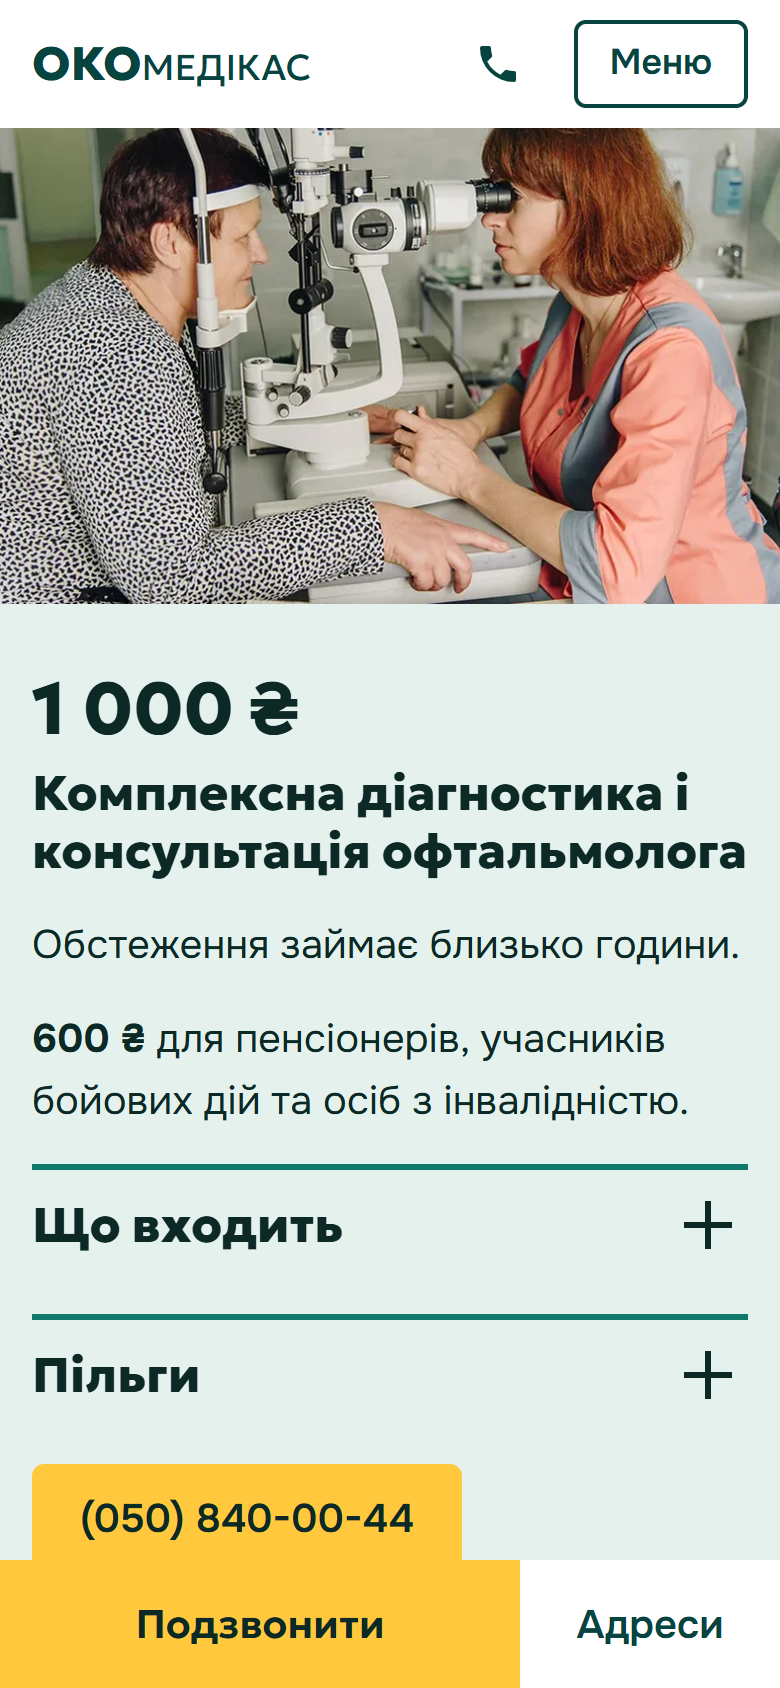
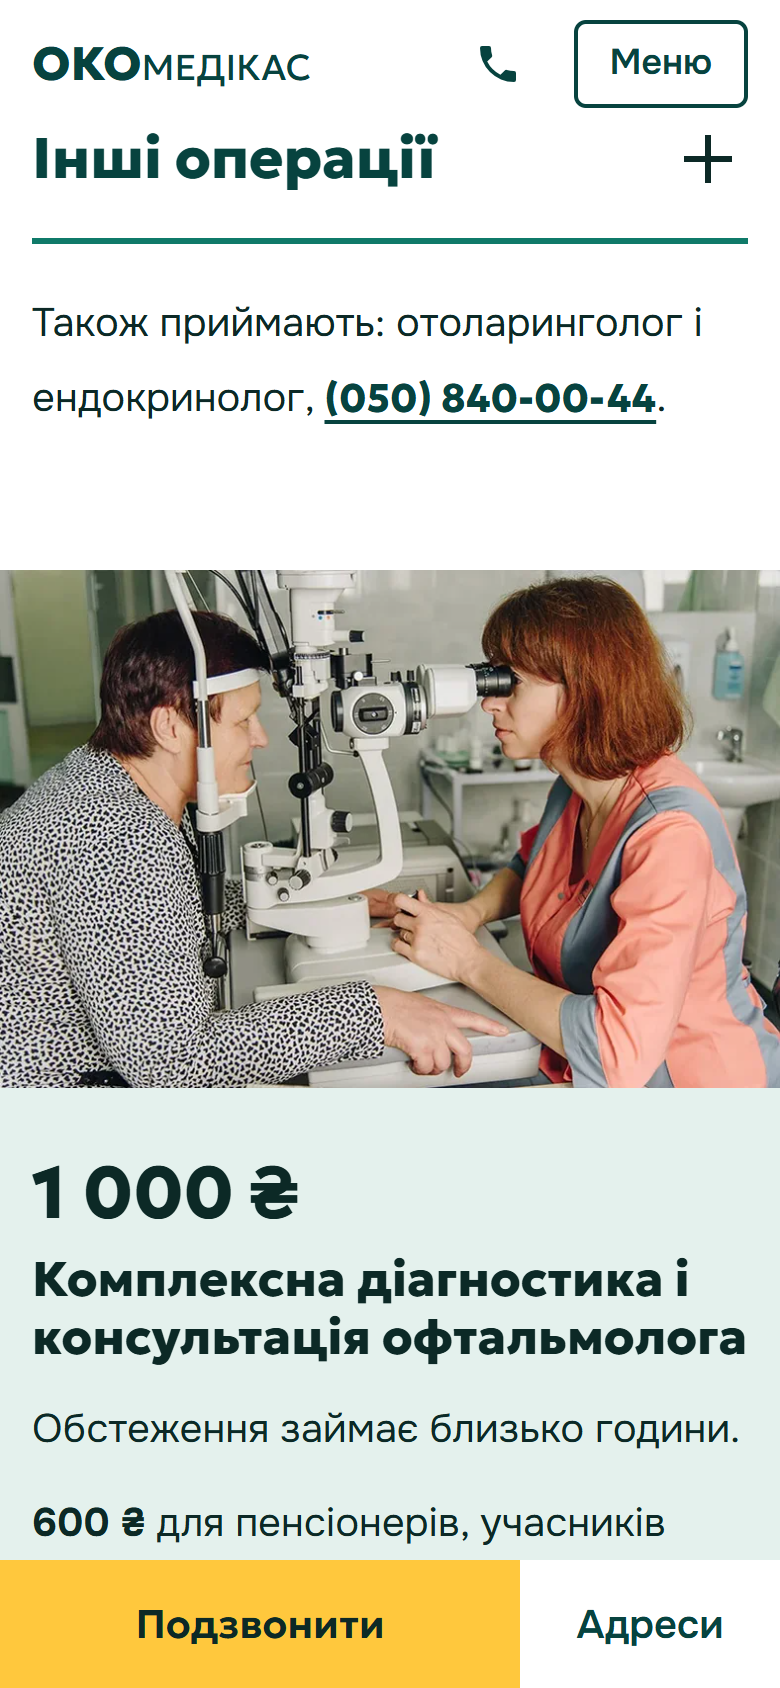
VEON: обновление сайта Окомедікас (WAITING_APPROVAL)

diff --git a/site/src/styles/site.css b/site/src/styles/site.css
@@ -58,33 +58,35 @@ html:not(.js) .textsize { display: none; }
 
 /* Первый экран: лестница строк */
 .hero { padding-block: var(--s3) var(--s4); }
-.hero__stack { display: flex; flex-direction: column; align-items: flex-start; gap: var(--s2); }
 .hero h1 { font-size: calc(var(--t1) * .92); color: var(--color-bg); }
 .hero__dirs { font-size: var(--t3); font-weight: 600; line-height: 1.3; }
-.plate { display: flex; flex-direction: column; justify-content: center; width: 100%; min-height: 96px; padding: var(--s2); border-radius: var(--radius); background: var(--color-accent); color: var(--color-accent-ink); text-decoration: none; transition: background-color var(--dur-short) var(--ease-out), transform var(--dur-short) var(--ease-out); }
-.plate:hover { background: var(--color-accent-hover); }
-.plate:active { transform: translateY(2px); }
-.plate__label { font-size: var(--text); font-weight: 600; line-height: 1.3; }
-.plate__num { font-family: var(--font-display); font-size: var(--t0); font-weight: 800; line-height: 1.1; white-space: nowrap; }
-.hero__more { display: flex; flex-wrap: wrap; align-items: center; gap: 0 var(--s3); }
-.hero__more .link { color: var(--color-bg); }
+.hero__grid { display: grid; grid-template-columns: minmax(0, 1fr); gap: var(--s3); }
+.hero__text { display: flex; flex-direction: column; align-items: flex-start; gap: var(--s2); min-width: 0; }
+.hero__actions { display: flex; flex-wrap: wrap; align-items: center; gap: var(--s2) var(--s3); width: 100%; }
+.hero__call { width: 100%; min-height: 64px; padding-inline: var(--s3); flex-wrap: wrap; gap: 0 .4em; white-space: normal; font-size: var(--t3); font-weight: 700; text-align: center; }
+.hero__alt { color: var(--color-bg); font-weight: 600; text-underline-offset: .2em; }
+.hero__where a { color: var(--color-accent); }
+.hero__tel2 { display: block; }
+.hero__photo { margin: 0; }
+.hero__photo img { display: block; width: 100%; max-width: 718px; height: auto; border-radius: var(--radius); }
 
 @media (min-width: 37.5rem) {
   .header-tel svg { display: none; }
   .header-tel__num { position: static; width: auto; height: auto; overflow: visible; clip-path: none; }
 }
 @media (min-width: 48rem) {
-  .hero { display: flex; align-items: center; min-height: calc(100svh - var(--header-h)); padding-block: var(--s3); }
-  .hero__stack { align-items: center; gap: clamp(var(--s2), 3svh, var(--s4)); text-align: center; }
-  .hero h1 { font-size: var(--t1); }
-  /* Строки на всю ширину: подмена шрифта не сдвигает их рамку */
-  .hero h1, .hero__dirs, .hero__where { width: 100%; }
-  .plate { order: -1; align-items: center; padding: var(--s2) var(--s3) var(--s3); margin-bottom: var(--s2); }
-  .plate__label { font-size: var(--t3); }
+  .hero__call { width: auto; min-height: 52px; font-size: var(--t4, 1.25rem); }
+  .hero { padding-block: var(--s5, var(--s4)); }
 }
 @media (min-width: 73.75rem) {
   .nav { display: block; }
   .js .textsize--header { display: inline-flex; }
   .menu { display: none; }
   .site-header__row { gap: var(--s3); }
+}
+
+@media (min-width: 64rem) {
+  .hero { display: grid; align-items: center; min-height: calc(100svh - var(--header-h)); }
+  .hero__grid { grid-template-columns: minmax(0, 1fr) minmax(0, 1fr); align-items: center; gap: var(--s4); }
+  .hero h1 { font-size: var(--t1); }
 }

diff --git a/site/src/styles/tokens.css b/site/src/styles/tokens.css
@@ -1,9 +1,8 @@
-/* Hallmark · shape: лестница строк от номера, своя структура · genre: modern-minimal · theme: custom · job: book · idea: "Страница набрана как таблица проверки зрения, а верхняя строка — номер 840-00-44" · vibe: "крупно, ясно, честно, один свет"
- * paper: #07433F · accent: #FFC83D · display: Geologica · body: Onest · hero: жёлтая плита с номером и лестница строк · nav: белая закреплённая, 7 якорей и номер · footer: две строки на стене · imagery: client photos · signature: номер на жёлтой плите и переключатель А / А+
+/* Hallmark · shape: привычный первый экран, текст и фото · genre: modern-minimal · theme: custom · job: book · idea: "Страница набрана как таблица проверки зрения, а верхняя строка — номер 840-00-44" · vibe: "крупно, ясно, честно, один свет"
+ * paper: #07433F · accent: #FFC83D · display: Geologica · body: Onest · hero: заголовок, кнопка звонка и фото здания · nav: белая закреплённая, 7 якорей и номер · footer: две строки на стене · imagery: client photos · signature: номер на жёлтой плите и переключатель А / А+
  * axes: dark/geometric-sans/chromatic-amber · posture: committed · surface: absolute · contrast: pass · fold: pass · v2.0.0 */
 /* Hallmark · pre-emit critique: P5 H5 E4 S5 R4 V4 · weakest: E, текста много для пожилого читателя; цены и составы раскрываются строками, мельче 18 px ничего нет */
 /* Hallmark · waive 7b · stamp says surface: absolute, contrast pairs pass AA · the concept fixes pure white as the surface and as Geologica text on the wall, chosen for patients who read with weak sight */
-/* Hallmark · waive 23 · stamp says posture: committed · the yellow plate holding the clinic number in Geologica digits is the signature of the first screen, the call is the whole job of this surface */
 /* Hallmark · dismissed F6 · the selector only contains the word prices, this heading is the word Катаракта in Geologica with no figures in it */
 /* Hallmark · dismissed 28a · every photograph sits below the first screen, the hero has no image, so lazy loading is correct and text is the largest paint */
 /* Hallmark · answered F4 · the pressed text size toggle is a state of a control, the only filled primary is the yellow call button */

diff --git a/design/demo-review.md b/design/demo-review.md
@@ -7,9 +7,9 @@
 
 | № | Критерий | Было → стало: доказательство | Итог |
 |---|---|---|---|
-| 1 | Отличие от старого сайта | Было: фото холла с тремя полупрозрачными полосами слогана, бирюзовая шапка. Стало: `home-desktop-fold.png`, жёлтая плита с номером на тёмно-зелёном фоне | PASS |
-| 2 | Самостоятельная визуальная концепция | Страница строится как таблица проверки зрения, верхняя строка — номер. Не описывается как шаблон клиники: у конкурентов такого первого экрана нет | PASS |
-| 3 | Первый экран | Было: слоган, кнопки нет. Стало: номер, H1 с городом, направления, адрес; 1440 и 390 | PASS |
+| 1 | Отличие от старого сайта | Было: фото холла с тремя полупрозрачными полосами слогана, бирюзовая шапка. Стало: `home-desktop-fold.png`, слева H1, направления и кнопка звонка, справа фото здания | PASS |
+| 2 | Самостоятельная визуальная концепция | Первый экран по просьбе сотрудника общепринятый, текст и фото; своё лицо страницы держат палитра, крупный набор нижних блоков и режим А+ | PASS |
+| 3 | Первый экран | Было: слоган, кнопки нет. Стало: H1 с городом, направления, адрес, кнопка звонка, фото здания; 1440 и 390 | PASS |
 | 4 | Читаемость и типографика | Geologica и Onest, базовый текст 20 px, режим А+ 24 px, контраст AA | PASS |
 | 5 | Композиция и иерархия | Один акцент на экран, смена плотности между блоками: `home-desktop-s03.png`, `s04` | PASS |
 | 6 | Фото и графика | Реальные фото клиники из снимков; качество 1× у лампы и здания, на плотных экранах мягче | PASS с замечанием |
@@ -23,7 +23,7 @@
 ## Hallmark (`docs/process/hallmark.md`, этап Б)
 - `hallmark_check.mjs`: 0 FAIL, 0 REFLEX, 0 WARN, 4 заметки (`design/review/hallmark-check.md`).
 - Ревью в свежем контексте (`design/review/finish-review.md`): первое слово — fix, итог PASS с замечаниями, условия FAIL редизайна не выполнены.
-- Отказы в штампе: 7b (чистый белый как поверхность и текст, выбран ради контраста) и 23 (жёлтая плита как главное действие). Ложное срабатывание F6 отклонено.
+- Отказ в штампе: 7b (чистый белый как поверхность и текст, выбран ради контраста). Ложное срабатывание F6 отклонено.
 
 ## UX-сценарии (`demo.md` §6, п. 3б)
 Сценарии — `ux/demo-home.md`; проход — `design/review/ux-walk.md`; независимая сверка — `design/review/ux-scenarios.md`.
@@ -42,11 +42,15 @@
 - Цикл 1 — найдено: радужки похожи на значок браузера, подача цен катаракты, фраза с цифрами, растянутое фото здания, разнобой в текстах. Исправлено всё; радужки убраны, концепция обновлена.
 - Дополнительно ведущим: строка ЛОР без неподтверждённого номера (K-008); льготы без значения, спорного на сайте (K-007).
 
+- После сдачи: по просьбе сотрудника первый экран заменён на общепринятый (текст слева, фото здания справа); проверен на 9 ширинах 320–1920 px в обоих размерах текста.
+
 ## Осталось
 - На живом телефоне демо не проверялось. В эмуляции панели встроенного браузера переход из меню не прокручивает страницу; в режиме телефона Playwright всё работает.
 - Логотип типографский: нужен оригинал от клиента.
 - Фото пациентки у щелевой лампы: клиенту подтвердить согласие на показ.
 - Фото лампы и здания в качестве 1×: нужны оригиналы.
 - Адрес, часы, льготы и написание «Візометрія» подтверждает клиент.
+
+Замечание: общепринятый первый экран менее узнаваем, чем прежняя концепция; это решение сотрудника.
 
 Итог: PASS с замечаниями

diff --git a/design/review/hallmark-check.md b/design/review/hallmark-check.md
@@ -1,11 +1,12 @@
 # Hallmark check
 
-Hallmark 0 FAIL, 0 REFLEX, 0 WARN, 20 waived, 4 notes · render: ran · lang: uk
+Hallmark 0 FAIL, 1 REFLEX, 1 WARN, 19 waived, 4 notes · render: ran · lang: uk
 
 render tier: 5 screenshots in .hallmark\shots (1280x800, 1440x900, 1920x1080 folds; 1440 and 375 full pages)
 
 | Grade | Gate | Where | Evidence | Fix |
 |---|---|---|---|---|
-| — | — | — | nothing open | — |
+| REFLEX | 79 | http://127.0.0.1:4390/veon-demo-okomedikas/:1 | [1440px] 189px of nothing between the hero's last content (y 711) and the fold | Centre the content in the screen and grow the visual or the head (layout.md § 6); never fill it with copy |
+| WARN | 49 | site\src\components\sections\Hero.astro:12 | long clickable label "Подзвонити: {CLINIC.label}" without nowrap | Shorten the label or set nowrap |
 
 RESULT: PASS
